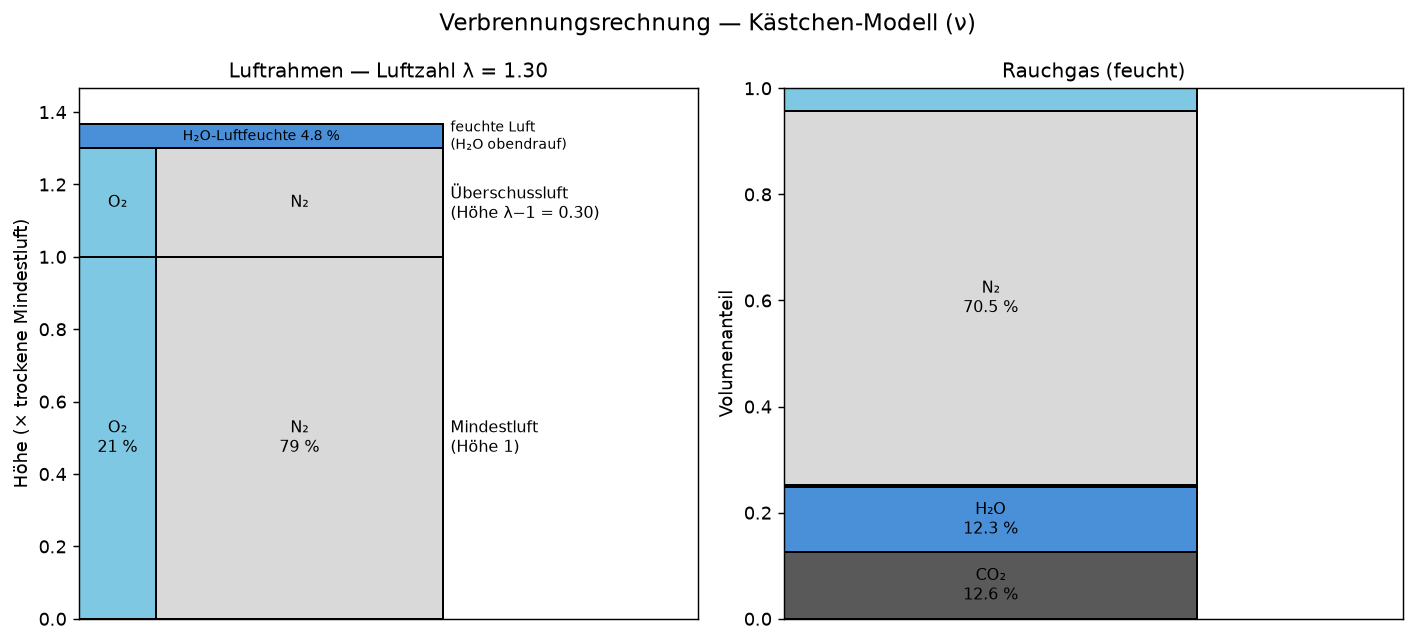
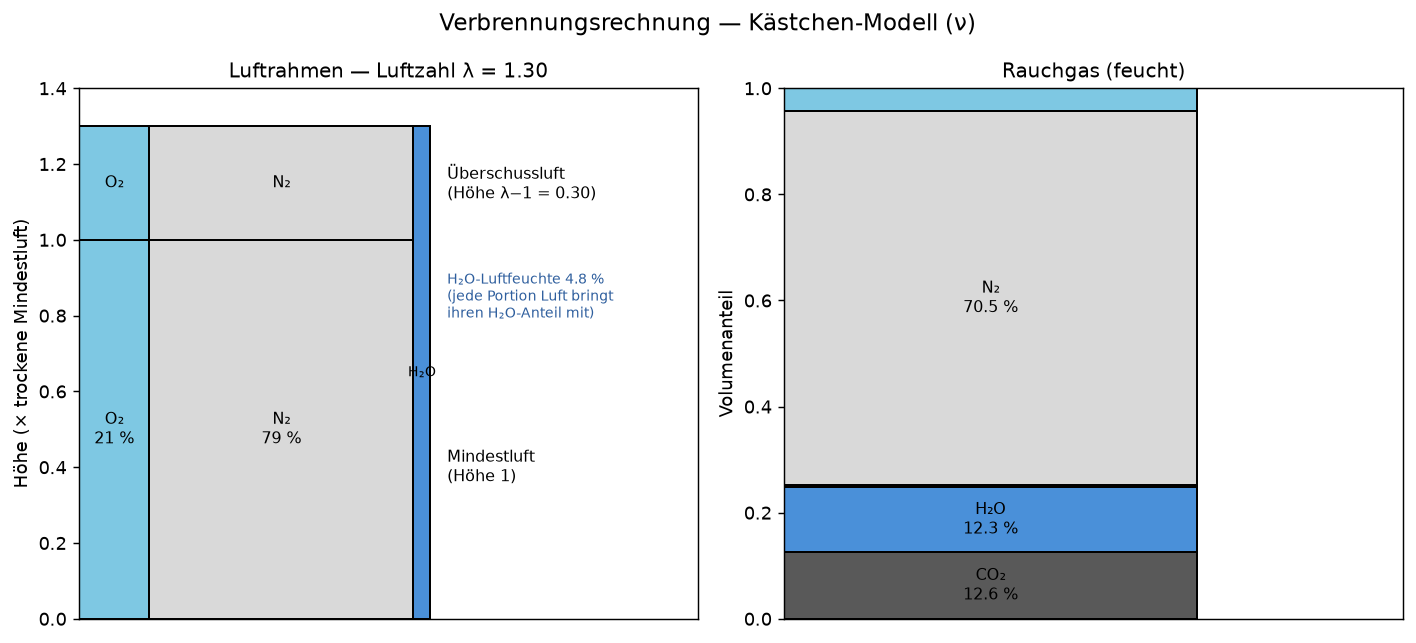
Luftfeuchte als rechte Spalte ueber volle Hoehe (proportional zur Luftmenge)

diff --git a/visualisierung.py b/visualisierung.py
@@ -29,29 +29,34 @@ def zeichne_luftrahmen(ax, luft: Luftrahmen):
     xO2 = luft.x_O2_luft
     lam = luft.lam
 
+    # trockene Luft: O2/N2 über die volle Höhe λ (Mindestluft 0..1 + Überschuss 1..λ)
     _kasten(ax, 0, 0, xO2, 1, FARBE["O2"], "O₂\n21 %")
     _kasten(ax, xO2, 0, 1 - xO2, 1, FARBE["N2"], "N₂\n79 %")
-    ax.annotate("Mindestluft\n(Höhe 1)", xy=(1.02, 0.5), va="center", fontsize=9)
 
     hue = max(lam - 1, 0)
     if hue > 0:
         _kasten(ax, 0, 1, xO2, hue, FARBE["O2"], "O₂")
         _kasten(ax, xO2, 1, 1 - xO2, hue, FARBE["N2"], "N₂")
+
+    # Luftfeuchte: rechts als Spalte über die GANZE Höhe λ — jede Portion Luft
+    # (Mindest- wie Überschussluft) bringt ihren proportionalen H2O-Anteil mit.
+    w_feucht = 0.0
+    if luft.x_H2O_luft > 0:
+        w_feucht = luft.x_H2O_luft / (1 - luft.x_H2O_luft)   # Breite rel. zur trockenen Luft (=1)
+        _kasten(ax, 1, 0, w_feucht, lam, FARBE["H2O"], "H₂O", fs=8)
+
+    xr = 1 + w_feucht + 0.05
+    ax.annotate("Mindestluft\n(Höhe 1)", xy=(xr, 0.4), va="center", fontsize=9)
+    if hue > 0:
         ax.annotate(f"Überschussluft\n(Höhe λ−1 = {hue:.2f})",
-                    xy=(1.02, 1 + hue / 2), va="center", fontsize=9)
+                    xy=(xr, 1 + hue / 2), va="center", fontsize=9)
+    if w_feucht > 0:
+        ax.annotate(f"H₂O-Luftfeuchte {100*luft.x_H2O_luft:.1f} %\n"
+                    "(jede Portion Luft bringt\nihren H₂O-Anteil mit)",
+                    xy=(xr, 0.85), va="center", fontsize=7.5, color="#2f5f9e")
 
-    # Luftfeuchte: volle Breite oben aufgesetzt (sitzt AUF der trockenen Luft,
-    # verändert die O2/N2-Teilung nicht) — Höhe in Einheiten der Mindestluft
-    h_feucht = 0.0
-    if luft.v_H2O_luft > 0 and luft.v_luft_min_tr > 0:
-        h_feucht = luft.v_H2O_luft / luft.v_luft_min_tr
-        _kasten(ax, 0, lam, 1, h_feucht, FARBE["H2O"],
-                f"H₂O-Luftfeuchte {100*luft.x_H2O_luft:.1f} %", fs=8)
-        ax.annotate("feuchte Luft\n(H₂O obendrauf)",
-                    xy=(1.02, lam + h_feucht / 2), va="center", fontsize=8)
-
-    ax.set_xlim(0, 1.7)
-    ax.set_ylim(0, max(lam + h_feucht, 1.05) + 0.1)
+    ax.set_xlim(0, xr + 0.75)
+    ax.set_ylim(0, max(lam, 1.05) + 0.1)
     ax.set_title(f"Luftrahmen — Luftzahl λ = {lam:.2f}", fontsize=11)
     ax.set_xticks([])
     ax.set_ylabel("Höhe (× trockene Mindestluft)")
